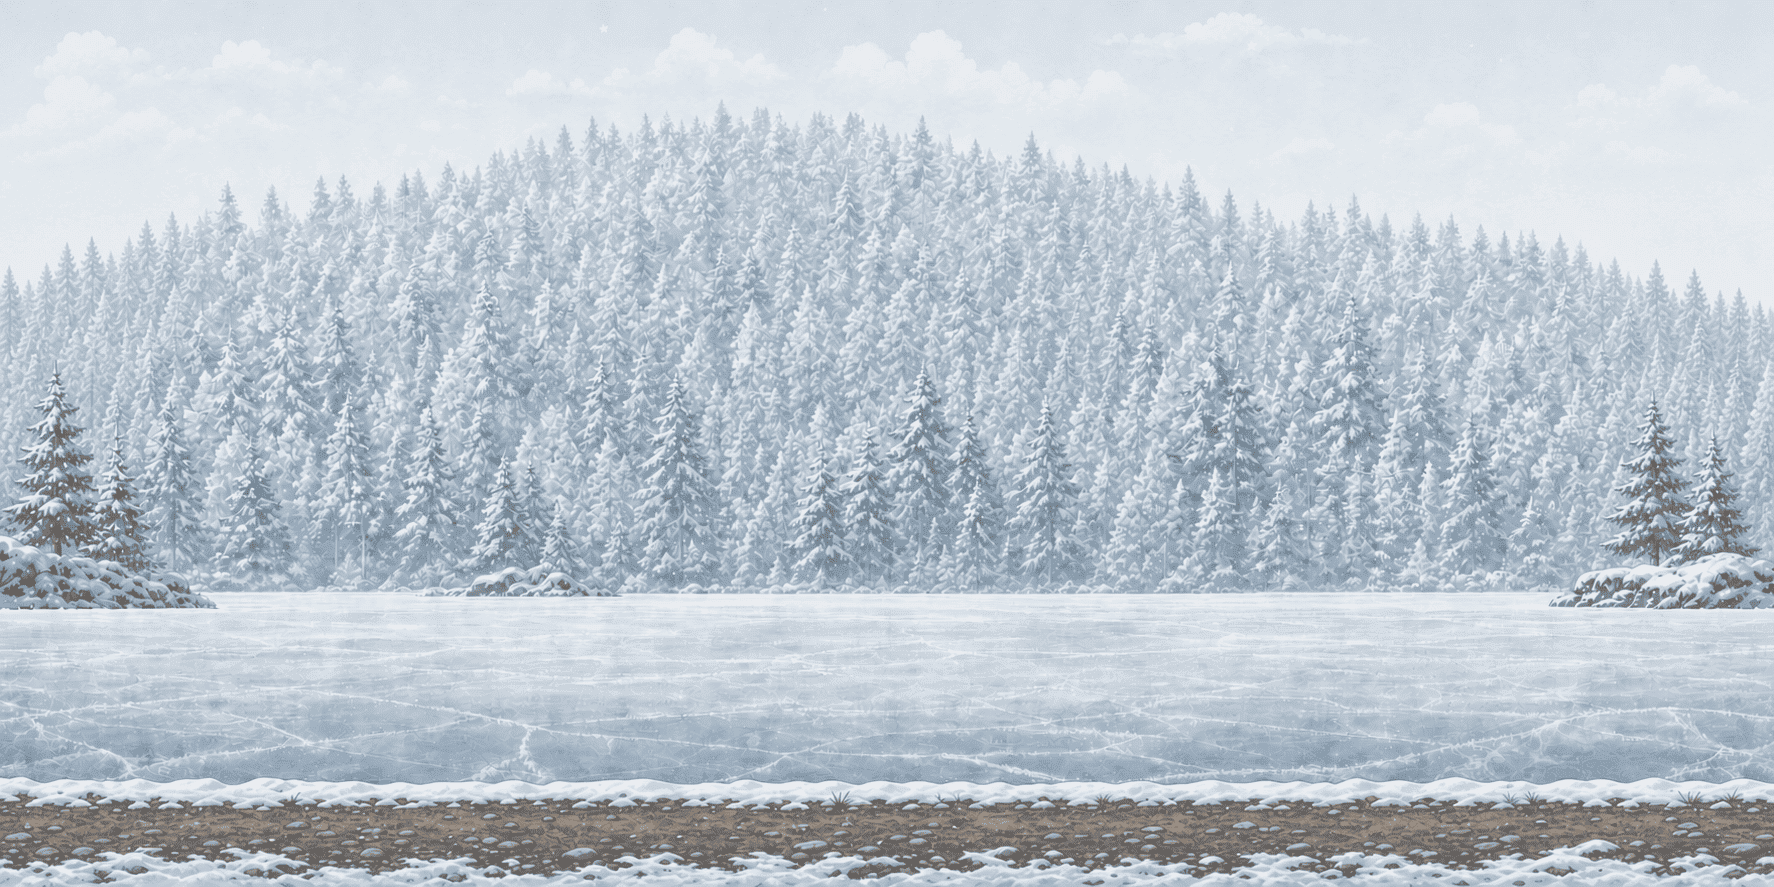
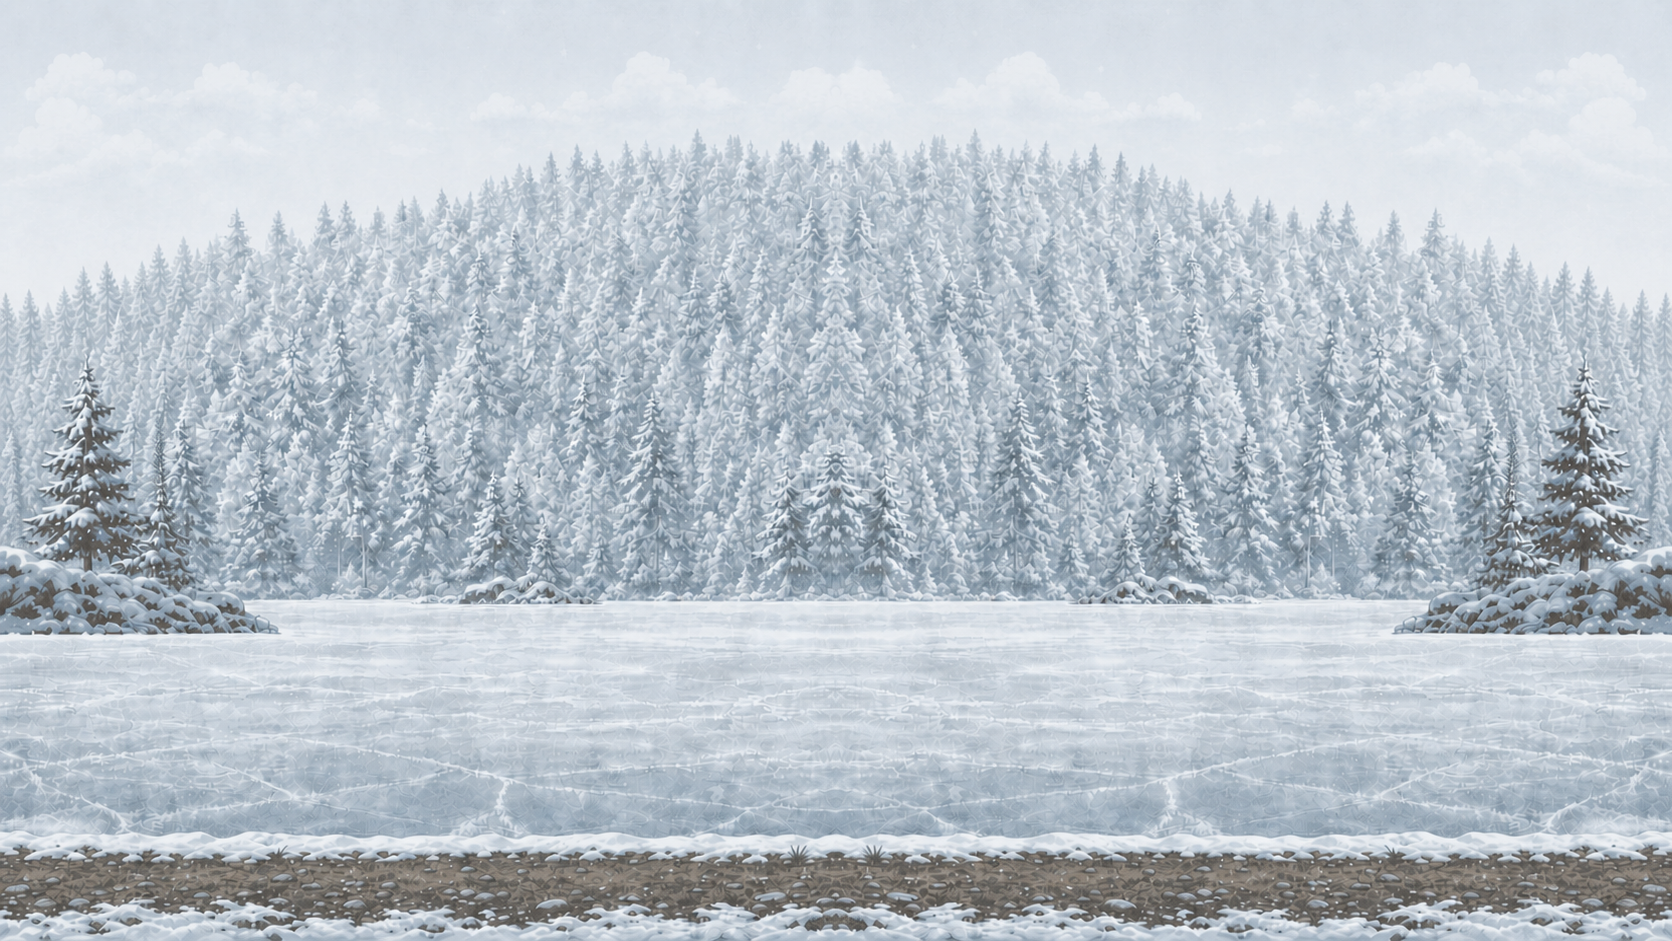
fix: mute sounds on game over and fix parallax cuts with new image shifted by 1px to 719px due to zero-indexing

diff --git a/levels/level1.js b/levels/level1.js
@@ -35,12 +35,28 @@ function initLevel(){
     ],
 
     [
-        new BackgroundObject('img/5_background/winter-location.png', -720),
+        new BackgroundObject('img/5_background/winter-location.png', -719),
         new BackgroundObject('img/5_background/winter-location.png', 0),
-        new BackgroundObject('img/5_background/winter-location2.png', 720),
-        new BackgroundObject('img/5_background/winter-location.png', 1440),
-        new BackgroundObject('img/5_background/winter-location.png', 2160),
+        new BackgroundObject('img/5_background/winter-location2.png', 719),
+        new BackgroundObject('img/5_background/winter-location.png', 719*2),
+        new BackgroundObject('img/5_background/winter-location.png', 719*3), 
     ]
+
+    // [
+    //     new BackgroundObject('img/5_background/winter3.png', -719),
+    //     new BackgroundObject('img/5_background/winter3.png', 0),
+    //     new BackgroundObject('img/5_background/winter3-location2.png',719),
+    //     new BackgroundObject('img/5_background/winter3.png', 719*2),
+    //     new BackgroundObject('img/5_background/winter3.png', 719*3),
+    // ]
+
+    // [
+    //     new BackgroundObject('img/5_background/first_half_background.png', -719),
+    //     new BackgroundObject('img/5_background/second_half_background.png', 0),
+    //     new BackgroundObject('img/5_background/first_half_background.png', 719),
+    //     new BackgroundObject('img/5_background/second_half_background.png', 719*2),
+    //     new BackgroundObject('img/5_background/first_half_background.png', 719*3),
+    // ]
 );
 
 }

diff --git a/modals/character.class.js b/modals/character.class.js
@@ -140,8 +140,7 @@ class Character extends Movableobject {
         this.wasAboveGround = this.isAboveGround();
     }
 
-
-    /**
+      /**
      * Tracks health parameters to halt timeline animations and prompt specific defeat actions.
      * @returns {boolean} True if player structural health properties register dead thresholds.
      */
@@ -150,12 +149,11 @@ class Character extends Movableobject {
             if (!this.deathResetDone) {
                 this.currentImage = 0;
                 this.deathResetDone = true;
-                this.world.sound.deadSound();
+                if (this.world && this.world.sound) this.world.sound.stopAmbienceAndBoss(); 
+                if (this.world && this.world.sound) this.world.sound.deadSound(); 
             }
             this.playAnimation(this.IMAGES_DEAD);
-            if (this.currentImage >= this.IMAGES_DEAD.length) {
-                clearInterval(this.characterAnimationInterval);
-            }
+            if (this.currentImage >= this.IMAGES_DEAD.length) clearInterval(this.characterAnimationInterval);
             return true;
         }
         return false;

diff --git a/modals/sound.class.js b/modals/sound.class.js
@@ -165,8 +165,8 @@ class Sound extends Movableobject {
     }
 
     /**
-        * Restores normalized balancing weights to sound assets managing specific map exceptions.
-        */
+    * Restores normalized balancing weights to sound assets managing specific map exceptions.
+    */
     unmuteAll() {
         this.isMuted = false;
         Object.keys(this).forEach(key => {
@@ -178,4 +178,16 @@ class Sound extends Movableobject {
         this.iceWindSound();
         this.playBackgroundMusic();
     }
+
+    /**
+    * Instantly stops background ambient loops and boss dragon sounds upon game over thresholds.
+    */
+    stopAmbienceAndBoss() {
+        if (this.ice_wind_sound) this.ice_wind_sound.pause();
+        if (this.windClone) this.windClone.pause();
+        if (this.background_music) this.background_music.pause();
+        if (this.dragon_fire_sound) this.dragon_fire_sound.pause();
+        if (this.dragon_growl_sound) this.dragon_growl_sound.pause();
+    }
+
 }

diff --git a/modals/keyboard.class.js b/modals/keyboard.class.js
@@ -5,11 +5,6 @@ class Keyboard {
     down = false;
     space = false;
     attack = false;
-    shoot_crossbow = false;
-
-    /**
-     * Creates a keyboard state mapping instance to track active input configurations.
-     */
-    
+    shoot_crossbow = false;  
 }
 

diff --git a/modals/background-object.class.js b/modals/background-object.class.js
@@ -1,5 +1,5 @@
 class BackgroundObject extends Movableobject {
-    width = 720;
+    width = 719;
     height = 480;
 
     /**

diff --git a/js/game.js b/js/game.js
@@ -185,3 +185,4 @@ function setupBtnTouch(elementId, keyboardKey) {
     }, { passive: false });
 }
 
+

diff --git a/modals/movable-object.class.js b/modals/movable-object.class.js
@@ -109,7 +109,3 @@ class Movableobject extends DrawableObject {
     }
 
 }
-
-
-
-
